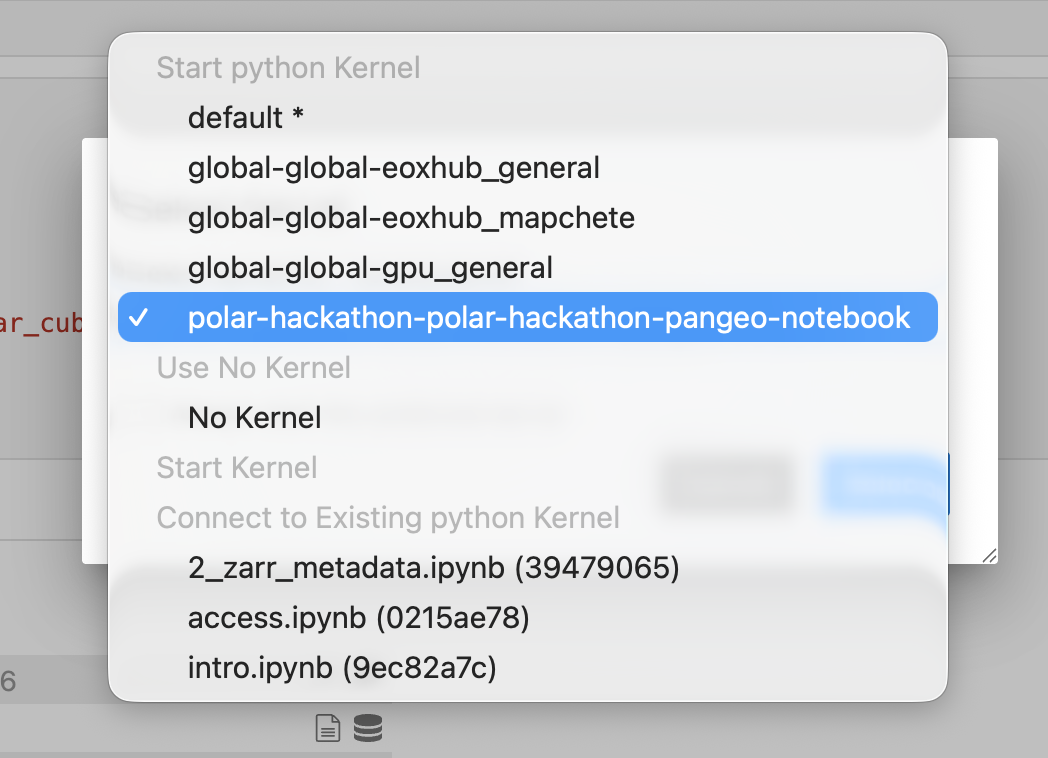
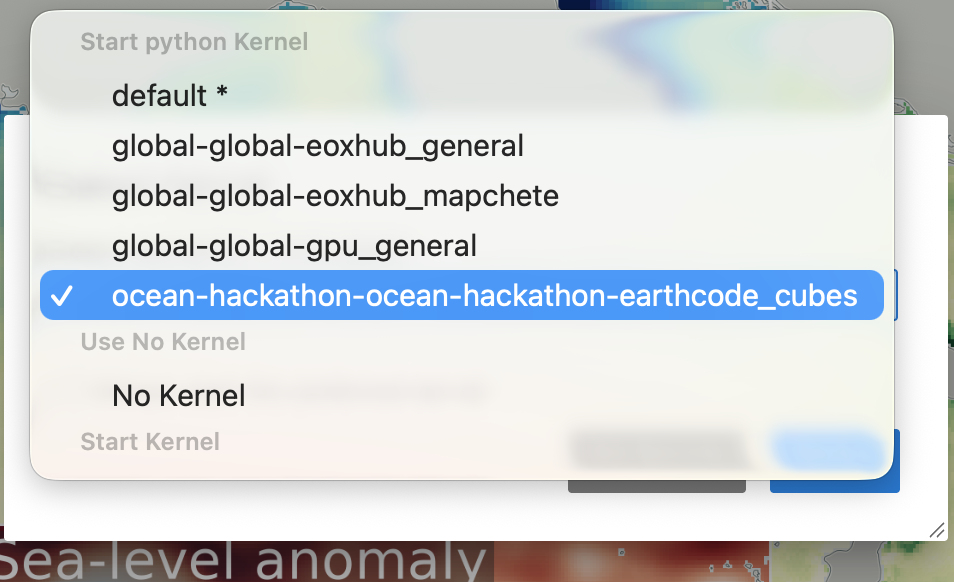
changing default kernel

diff --git a/0_Introduction/setup.md b/0_Introduction/setup.md
@@ -46,4 +46,6 @@ Make sure to select the correct environment size: **EOX JupyterLab (JupyterLab w
 
 See the [introduction to the EDC workspace](./Workspace/workspace.md) for more details.
 
-After you enter the environment and open a notebook, you might be asked to select a kernel. The workshop kernel name is **earthcode-cubes**.
+After you enter the environment and open a notebook, you might be asked to select a kernel. The workshop kernel name is **ocean-hackathon-ocean-hackathon-earthcode_cubes**.
+
+![kernel](../static/kernel.png)
